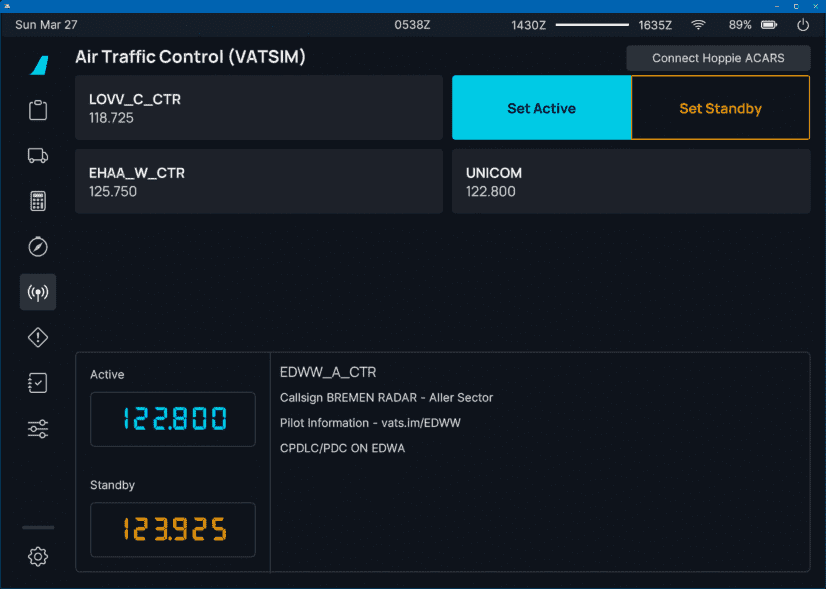
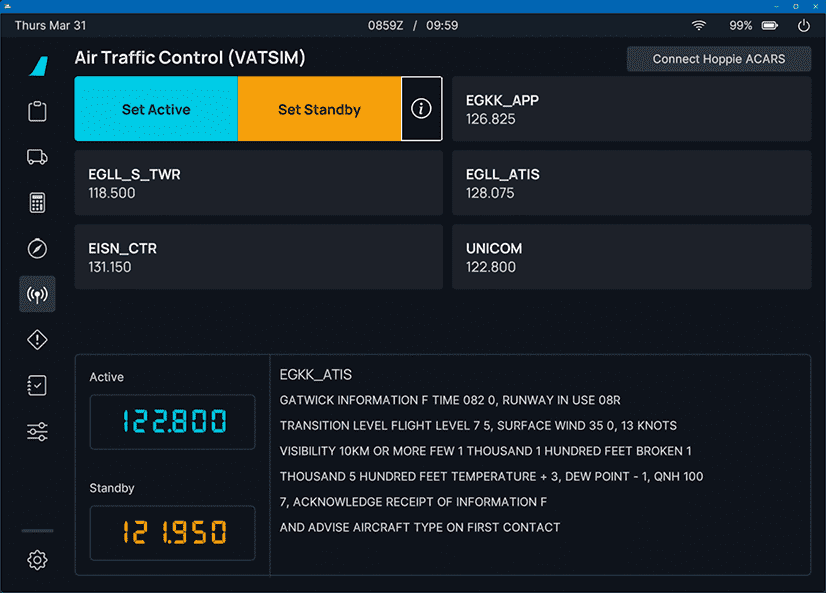
Online ATC page screenshots und description updated

diff --git a/docs/fbw-a32nx/feature-guides/flyPados3/online-atc.md b/docs/fbw-a32nx/feature-guides/flyPados3/online-atc.md
@@ -23,17 +23,12 @@ The FlyByWire flyPad helps pilots managing the communication frequencies when us
 
 It lists all currently available ATC stations which can then be activated in the RMP 1 by a single click.
 
-## Usage
-
-### Changing Frequencies
-
 Go to the flyPad [ATSU/AOC settings page](settings.md#atsuaoc) and select your Online ATC service.
 
 !!! warning ""
     Only VATSIM or IVAO can be used for this feature at this time.
 
-Go back to the ATC page and see the list of the currently available ATC stations. Click on a station to set this 
-frequency in the Captain's RMP.
+## Usage
 
 <div style="position: relative;">
     <img src="/fbw-a32nx/assets/flypados3/online-atc-frequency.png" style="width: 100%; height: auto;" loading="lazy">
@@ -49,6 +44,15 @@ frequency in the Captain's RMP.
     <a href="../settings/">    <div class="imagemap" style="position: absolute; left: 1.7%; top: 85.0%; width: 5.8%; height: 7.0%;"><span class="imagemapname">Settings</span></div></a>
     <span class="imagesub">Click on the menu icons in this image to see other flyPad pages.</span>
 </div>
+
+### Getting ATIS
+
+To get the ATIS information of the channel hover over the station and click on the `i` symbol. 
+
+### Changing Frequencies
+
+To change a frequency hover over the station and click either `Set Active` or `Set Standby` depending on if you 
+want to immediately set the frequency as the active frequency or just as the standby frequency for later use. 
 
 ### Using Hoppie ACARS
 
